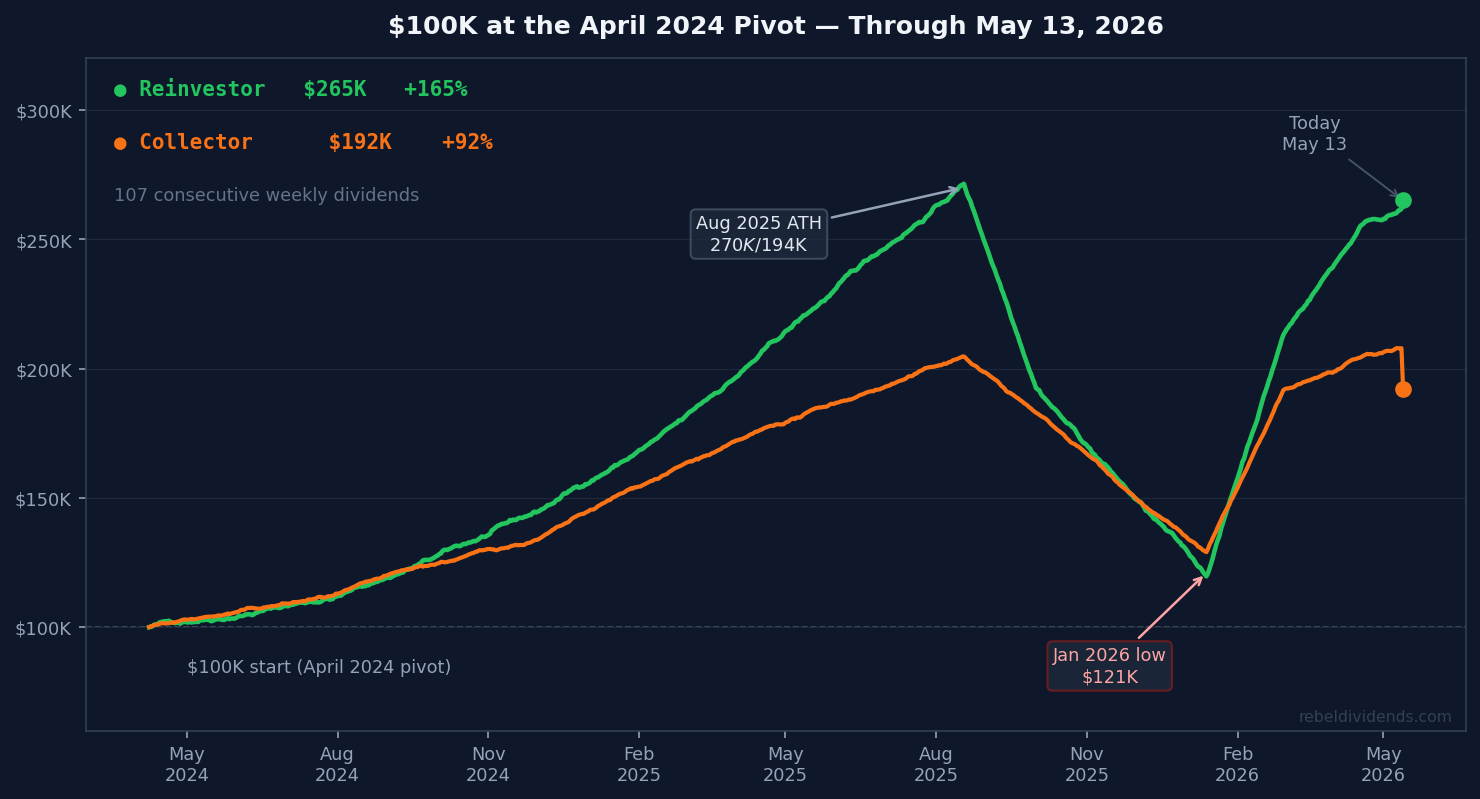
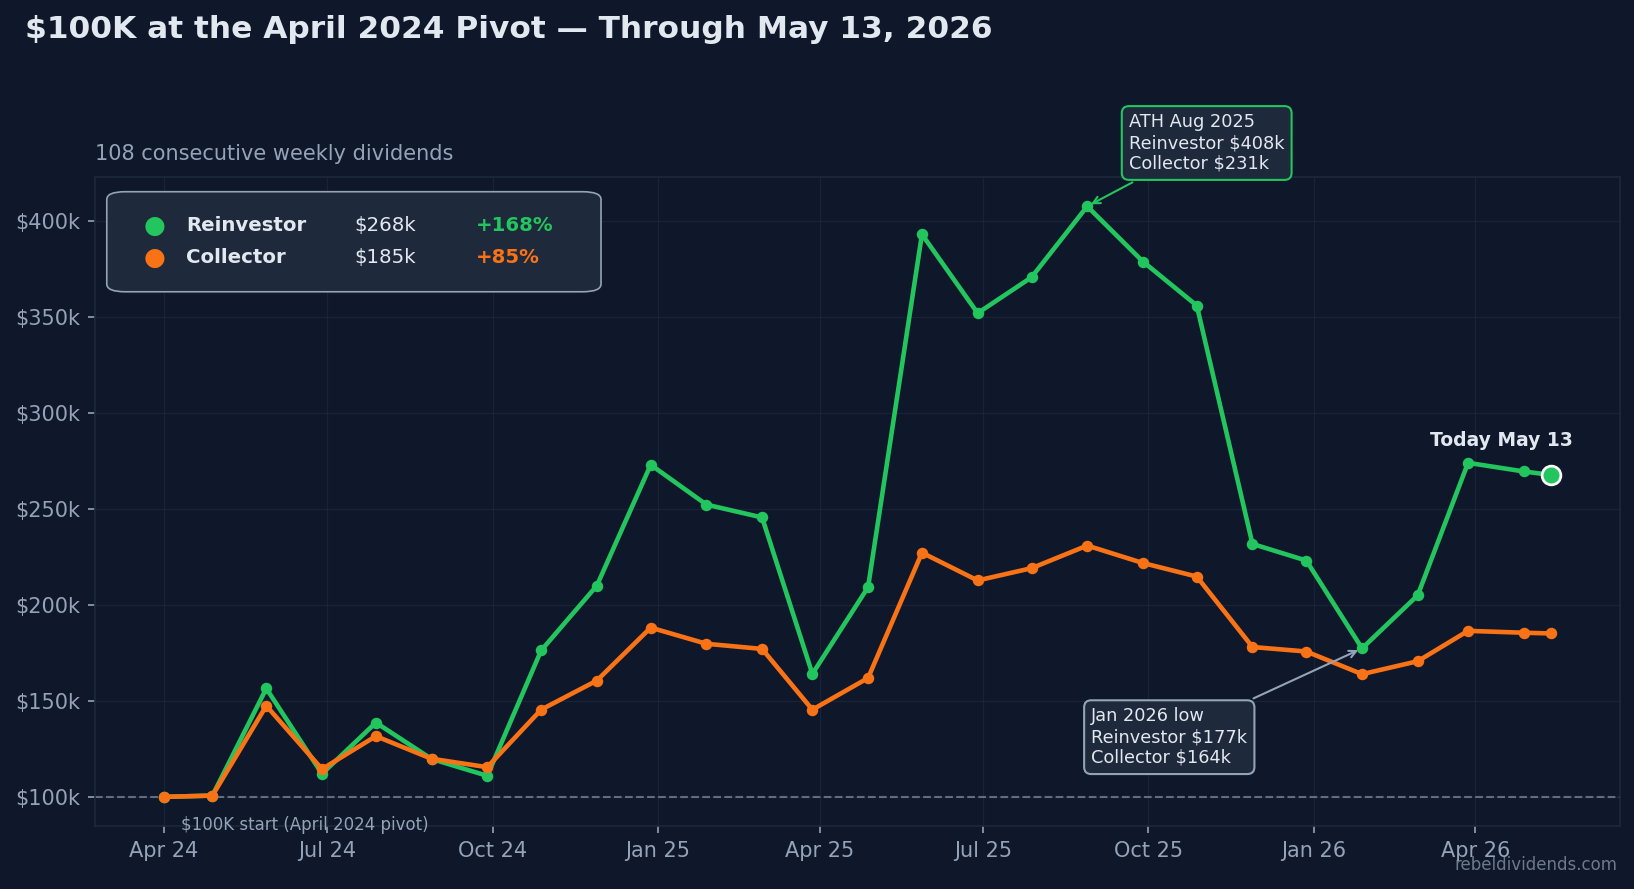
Add gen_pivot_chart.py — reusable weekly-compounding reinvestor chart script

diff --git a/outputs/2026-05-13/elementor.html b/outputs/2026-05-13/elementor.html
@@ -10,7 +10,7 @@
 
 <p style="margin:0 0 18px 0;font-size:17px;line-height:1.7;color:#1a1a1a;">Yesterday's webinar locked in the macro setup: BTC has decoupled from global M2 money supply, and when M2 catches up, BTC explodes. HYPE pulls with it. Hyperliquid is the #1 decentralized perp exchange &mdash; roughly 70% market share, $180B+ monthly volume, 97% of protocol fees flowing back to token holders. $1.3B in HYPE already bought back and burned. That's 4.17% of supply, gone.</p>
 
-<p style="margin:0 0 20px 0;font-size:17px;line-height:1.7;color:#1a1a1a;"><strong style="color:#ff6600;">$60 is the first stop. $150 is the thesis. $350-500 is the path from there.</strong> $100K invested at our April 2024 pivot is worth roughly <strong>$256K (Reinvestor) or $185K (Collector)</strong> today. The Reinvestor advantage is $71K and widens every Monday when the next dividend lands.</p>
+<p style="margin:0 0 20px 0;font-size:17px;line-height:1.7;color:#1a1a1a;"><strong style="color:#ff6600;">$60 is the first stop. $150 is the thesis. $350-500 is the path from there.</strong> $100K invested at our April 2024 pivot is worth roughly <strong>$268K (Reinvestor) or $185K (Collector)</strong> today. The Reinvestor advantage is $83K and widens every Monday when the next dividend lands.</p>
 
 <p style="margin:0 0 22px 0;font-size:17px;line-height:1.7;color:#1a1a1a;">Week 106 dividend confirmed this Monday &mdash; 106 consecutive weeks of uninterrupted income since the pivot, every 2026 distribution classified as Return of Capital under IRC &sect;301(c)(2). Tax-free for 2026 &mdash; consult your CPA. If you missed Tuesday's webinar, the replay walks through the full thesis: macro setup, buyback math, the September ATH retest, and the points-program signal nobody else is talking about.</p>
 

diff --git a/outputs/2026-05-13/email.html b/outputs/2026-05-13/email.html
@@ -28,7 +28,7 @@
 
 <p style="margin:0 0 18px 0;font-size:16px;line-height:1.7;color:#333333;font-family:Arial,sans-serif;">Yesterday's webinar locked in the macro setup: BTC has decoupled from global M2 money supply, and when M2 catches up, BTC explodes. HYPE pulls with it. Hyperliquid is the #1 decentralized perp exchange &mdash; roughly 70% market share, $180B+ monthly volume, 97% of protocol fees flowing back to token holders. $1.3B in HYPE already bought back and burned. That's 4.17% of supply, gone.</p>
 
-<p style="margin:0 0 20px 0;font-size:16px;line-height:1.7;color:#333333;font-family:Arial,sans-serif;"><strong style="color:#ff6600;">$60 is the first stop. $150 is the thesis. $350-500 is the path from there.</strong> $100K invested at our April 2024 pivot is worth roughly <strong>$256K (Reinvestor) or $185K (Collector)</strong> today. The Reinvestor advantage is $71K and widens every Monday when the next dividend lands.</p>
+<p style="margin:0 0 20px 0;font-size:16px;line-height:1.7;color:#333333;font-family:Arial,sans-serif;"><strong style="color:#ff6600;">$60 is the first stop. $150 is the thesis. $350-500 is the path from there.</strong> $100K invested at our April 2024 pivot is worth roughly <strong>$268K (Reinvestor) or $185K (Collector)</strong> today. The Reinvestor advantage is $83K and widens every Monday when the next dividend lands.</p>
 
 <p style="margin:0 0 22px 0;font-size:16px;line-height:1.7;color:#333333;font-family:Arial,sans-serif;">Week 107 dividend confirmed this Monday &mdash; 107 consecutive weeks of uninterrupted income since the pivot, every 2026 distribution classified as Return of Capital under IRC &sect;301(c)(2). Tax-free for 2026 &mdash; consult your CPA. If you missed Tuesday's webinar, the replay walks through the full thesis: macro setup, buyback math, the September ATH retest, and the points-program signal nobody else is talking about.</p>
 

diff --git a/pipeline/gen_pivot_chart.py b/pipeline/gen_pivot_chart.py
@@ -1,0 +1,374 @@
+#!/usr/bin/env python3
+"""
+Generate the "$100K at the April 2024 Pivot" dark-theme chart.
+
+Simulates Reinvestor vs Collector using weekly steps inside each month:
+  - weekly_price interpolates linearly from monthly open -> close
+  - weekly_div_per_share = monthly_div / weeks_in_month
+  - Reinvestor: buys MORE shares each week using that week's dividend cash
+  - Collector: shares fixed; cash piles up
+
+Usage:
+    python3 pipeline/gen_pivot_chart.py --date 2026-05-13 --price 0.00164 --monthly-div 0.00004
+
+The last row of MONTHLY_DATA is treated as the "current/MTD" row and
+its `close` and `monthly_div` are overridden by the CLI flags. To roll
+forward to a new month, append a new dict to MONTHLY_DATA.
+
+Outputs:
+    public/charts/<YYYY-MM-DD>/reinvest-since-pivot-<mmmDD>.png
+    public/charts/2026-05-12/reinvest-since-pivot-may12.png   (compat)
+"""
+from __future__ import annotations
+
+import argparse
+import os
+import sys
+from dataclasses import dataclass
+from datetime import datetime, date
+
+import matplotlib.pyplot as plt
+import matplotlib.patches as mpatches
+from matplotlib.ticker import FuncFormatter
+
+# ---------------------------------------------------------------------------
+# Monthly data — appendable.  open/close = HYPE price at month open/close.
+# monthly_div = total dividend per share for the month.
+# weeks = simulation steps inside that month (4 normal, 2 for May 2026 MTD).
+# ---------------------------------------------------------------------------
+MONTHLY_DATA = [
+    {"label": "Apr 2024", "year": 2024, "month":  4, "open": 0.00297, "close": 0.00269, "monthly_div": 0.00030, "weeks": 4},
+    {"label": "May 2024", "year": 2024, "month":  5, "open": 0.00265, "close": 0.00353, "monthly_div": 0.00055, "weeks": 4},
+    {"label": "Jun 2024", "year": 2024, "month":  6, "open": 0.00311, "close": 0.00225, "monthly_div": 0.00030, "weeks": 4},
+    {"label": "Jul 2024", "year": 2024, "month":  7, "open": 0.00238, "close": 0.00234, "monthly_div": 0.00042, "weeks": 4},
+    {"label": "Aug 2024", "year": 2024, "month":  8, "open": 0.00147, "close": 0.00175, "monthly_div": 0.00024, "weeks": 4},
+    {"label": "Sep 2024", "year": 2024, "month":  9, "open": 0.00154, "close": 0.00153, "monthly_div": 0.00009, "weeks": 4},
+    {"label": "Oct 2024", "year": 2024, "month": 10, "open": 0.00143, "close": 0.00237, "monthly_div": 0.00005, "weeks": 4},
+    {"label": "Nov 2024", "year": 2024, "month": 11, "open": 0.00241, "close": 0.00275, "monthly_div": 0.00007, "weeks": 4},
+    {"label": "Dec 2024", "year": 2024, "month": 12, "open": 0.00337, "close": 0.00337, "monthly_div": 0.00020, "weeks": 4},
+    {"label": "Jan 2025", "year": 2025, "month":  1, "open": 0.00367, "close": 0.00302, "monthly_div": 0.00010, "weeks": 4},
+    {"label": "Feb 2025", "year": 2025, "month":  2, "open": 0.00295, "close": 0.00286, "monthly_div": 0.00008, "weeks": 4},
+    {"label": "Mar 2025", "year": 2025, "month":  3, "open": 0.00246, "close": 0.00182, "monthly_div": 0.00010, "weeks": 4},
+    {"label": "Apr 2025", "year": 2025, "month":  4, "open": 0.00159, "close": 0.00223, "monthly_div": 0.00008, "weeks": 4},
+    {"label": "May 2025", "year": 2025, "month":  5, "open": 0.00246, "close": 0.00408, "monthly_div": 0.00009, "weeks": 4},
+    {"label": "Jun 2025", "year": 2025, "month":  6, "open": 0.00338, "close": 0.00353, "monthly_div": 0.00012, "weeks": 4},
+    {"label": "Jul 2025", "year": 2025, "month":  7, "open": 0.00406, "close": 0.00364, "monthly_div": 0.00008, "weeks": 4},
+    {"label": "Aug 2025", "year": 2025, "month":  8, "open": 0.00301, "close": 0.00387, "monthly_div": 0.00012, "weeks": 4},
+    {"label": "Sep 2025", "year": 2025, "month":  9, "open": 0.00400, "close": 0.00352, "monthly_div": 0.00008, "weeks": 4},
+    {"label": "Oct 2025", "year": 2025, "month": 10, "open": 0.00352, "close": 0.00318, "monthly_div": 0.00013, "weeks": 4},
+    {"label": "Nov 2025", "year": 2025, "month": 11, "open": 0.00278, "close": 0.00191, "monthly_div": 0.00018, "weeks": 4},
+    {"label": "Dec 2025", "year": 2025, "month": 12, "open": 0.00191, "close": 0.00174, "monthly_div": 0.00010, "weeks": 4},
+    {"label": "Jan 2026", "year": 2026, "month":  1, "open": 0.00174, "close": 0.00131, "monthly_div": 0.00008, "weeks": 4},
+    {"label": "Feb 2026", "year": 2026, "month":  2, "open": 0.00131, "close": 0.00143, "monthly_div": 0.00008, "weeks": 4},
+    {"label": "Mar 2026", "year": 2026, "month":  3, "open": 0.00143, "close": 0.00180, "monthly_div": 0.00010, "weeks": 4},
+    {"label": "Apr 2026", "year": 2026, "month":  4, "open": 0.00180, "close": 0.001691, "monthly_div": 0.00008, "weeks": 4},
+    # last row = current MTD; close + monthly_div override-able via CLI
+    {"label": "May 2026 MTD", "year": 2026, "month": 5, "open": 0.001691, "close": 0.00164, "monthly_div": 0.00004, "weeks": 2},
+]
+
+PIVOT_PRICE = 0.00297
+INITIAL_CAPITAL = 100_000.0
+INITIAL_SHARES = INITIAL_CAPITAL / PIVOT_PRICE  # 33,670,033.67
+
+# First weekly dividend after the April 2024 pivot. Used to count
+# consecutive weekly dividends from the run date.
+FIRST_DIV_DATE = date(2024, 4, 22)
+
+
+# ---------------------------------------------------------------------------
+@dataclass
+class MonthlyPoint:
+    label: str
+    end_date: date
+    close: float
+    monthly_div: float
+    reinvestor_shares: float
+    reinvestor_value: float
+    collector_cash: float
+    collector_value: float
+
+
+def simulate(months: list[dict]) -> list[MonthlyPoint]:
+    """Weekly-step simulation; returns one MonthlyPoint per month + a t=0 row."""
+    points: list[MonthlyPoint] = []
+
+    # t=0 anchor at pivot
+    points.append(MonthlyPoint(
+        label="Pivot",
+        end_date=date(months[0]["year"], months[0]["month"], 1),
+        close=PIVOT_PRICE,
+        monthly_div=0.0,
+        reinvestor_shares=INITIAL_SHARES,
+        reinvestor_value=INITIAL_CAPITAL,
+        collector_cash=0.0,
+        collector_value=INITIAL_CAPITAL,
+    ))
+
+    reinvestor_shares = INITIAL_SHARES
+    collector_cash = 0.0
+
+    for m in months:
+        weeks = int(m["weeks"])
+        open_p = float(m["open"])
+        close_p = float(m["close"])
+        weekly_div = float(m["monthly_div"]) / weeks
+
+        for w in range(1, weeks + 1):
+            # linear interpolation from open -> close at end of each week
+            frac = w / weeks
+            weekly_price = open_p + (close_p - open_p) * frac
+
+            # Reinvestor: collect div cash, buy more shares at weekly_price
+            div_cash = reinvestor_shares * weekly_div
+            new_shares = div_cash / weekly_price
+            reinvestor_shares += new_shares
+
+            # Collector: cash collected on FIXED initial share count
+            collector_cash += INITIAL_SHARES * weekly_div
+
+        reinvestor_value = reinvestor_shares * close_p
+        collector_value = (INITIAL_SHARES * close_p) + collector_cash
+
+        # end-of-month date (use day 28 for stability; MTD uses run date)
+        eom = date(m["year"], m["month"], 28)
+
+        points.append(MonthlyPoint(
+            label=m["label"],
+            end_date=eom,
+            close=close_p,
+            monthly_div=m["monthly_div"],
+            reinvestor_shares=reinvestor_shares,
+            reinvestor_value=reinvestor_value,
+            collector_cash=collector_cash,
+            collector_value=collector_value,
+        ))
+
+    return points
+
+
+# ---------------------------------------------------------------------------
+def draw_chart(points: list[MonthlyPoint], run_date: date, out_paths: list[str]):
+    bg = "#0f172a"
+    grid = "#1e293b"
+    text = "#e2e8f0"
+    muted = "#94a3b8"
+    green = "#22c55e"
+    orange = "#f97316"
+
+    plt.rcParams.update({
+        "font.family": "DejaVu Sans",
+        "axes.edgecolor": muted,
+        "axes.labelcolor": text,
+        "xtick.color": muted,
+        "ytick.color": muted,
+        "text.color": text,
+    })
+
+    fig, ax = plt.subplots(figsize=(11, 6), dpi=150)
+    fig.patch.set_facecolor(bg)
+    ax.set_facecolor(bg)
+
+    dates = [p.end_date for p in points]
+    reinv = [p.reinvestor_value for p in points]
+    coll = [p.collector_value for p in points]
+
+    # Replace last point's date with the run date so the "Today" marker sits where it should
+    dates[-1] = run_date
+
+    ax.plot(dates, reinv, color=green, lw=2.2, marker="o", ms=4.5, mfc=green, mec=green, zorder=3)
+    ax.plot(dates, coll, color=orange, lw=2.2, marker="o", ms=4.5, mfc=orange, mec=orange, zorder=3)
+
+    # $100K reference line
+    ax.axhline(INITIAL_CAPITAL, color=muted, ls="--", lw=1, alpha=0.6, zorder=1)
+
+    # Grid
+    ax.grid(True, color=grid, lw=0.6, alpha=0.7)
+    ax.set_axisbelow(True)
+    for spine in ax.spines.values():
+        spine.set_color(grid)
+
+    # Y axis formatting in $k
+    ax.yaxis.set_major_formatter(FuncFormatter(lambda v, _: f"${v/1000:,.0f}k"))
+
+    # X axis: ticks every ~3 months
+    import matplotlib.dates as mdates
+    ax.xaxis.set_major_locator(mdates.MonthLocator(interval=3))
+    ax.xaxis.set_major_formatter(mdates.DateFormatter("%b %y"))
+    fig.autofmt_xdate(rotation=0, ha="center")
+
+    # ATH annotation (pick reinvestor peak after first month)
+    body = points[1:]  # skip pivot anchor
+    ath_idx = max(range(len(body)), key=lambda i: body[i].reinvestor_value)
+    ath_pt = body[ath_idx]
+    ath_coll = ath_pt.collector_value
+    ath_text = (
+        f"ATH {ath_pt.label}\n"
+        f"Reinvestor ${ath_pt.reinvestor_value/1000:,.0f}k\n"
+        f"Collector ${ath_coll/1000:,.0f}k"
+    )
+    ax.annotate(
+        ath_text,
+        xy=(ath_pt.end_date, ath_pt.reinvestor_value),
+        xytext=(20, 18),
+        textcoords="offset points",
+        fontsize=8.5,
+        color=text,
+        bbox=dict(boxstyle="round,pad=0.4", fc="#1e293b", ec=green, lw=1),
+        arrowprops=dict(arrowstyle="->", color=green, lw=1),
+    )
+
+    # Jan 2026 low annotation (find reinvestor min in 2026)
+    candidates_2026 = [p for p in body if p.end_date.year == 2026 and p.end_date.month <= 4]
+    if candidates_2026:
+        low_pt = min(candidates_2026, key=lambda p: p.reinvestor_value)
+        low_text = (
+            f"{low_pt.label} low\n"
+            f"Reinvestor ${low_pt.reinvestor_value/1000:,.0f}k\n"
+            f"Collector ${low_pt.collector_value/1000:,.0f}k"
+        )
+        ax.annotate(
+            low_text,
+            xy=(low_pt.end_date, low_pt.reinvestor_value),
+            xytext=(-130, -55),
+            textcoords="offset points",
+            fontsize=8.5,
+            color=text,
+            bbox=dict(boxstyle="round,pad=0.4", fc="#1e293b", ec=muted, lw=1),
+            arrowprops=dict(arrowstyle="->", color=muted, lw=1),
+        )
+
+    # "Today" marker on endpoint
+    today = points[-1]
+    ax.plot([run_date], [today.reinvestor_value], "o", ms=9,
+            mfc=green, mec="white", mew=1.3, zorder=5)
+    ax.annotate(
+        f"Today {run_date.strftime('%b %d')}",
+        xy=(run_date, today.reinvestor_value),
+        xytext=(-58, 14),
+        textcoords="offset points",
+        fontsize=9,
+        color=text,
+        fontweight="bold",
+    )
+
+    # $100K start label
+    ax.annotate(
+        "$100K start (April 2024 pivot)",
+        xy=(dates[0], INITIAL_CAPITAL),
+        xytext=(8, -16),
+        textcoords="offset points",
+        fontsize=8,
+        color=muted,
+    )
+
+    # Legend (top-left box)
+    reinv_pct = (today.reinvestor_value / INITIAL_CAPITAL - 1) * 100
+    coll_pct = (today.collector_value / INITIAL_CAPITAL - 1) * 100
+    legend_lines = [
+        ("Reinvestor", f"${today.reinvestor_value/1000:,.0f}k", f"+{reinv_pct:.0f}%", green),
+        ("Collector", f"${today.collector_value/1000:,.0f}k", f"+{coll_pct:.0f}%", orange),
+    ]
+    # Build legend manually
+    ax.text(
+        0.018, 0.965,
+        "",
+        transform=ax.transAxes,
+    )
+    legend_x = 0.020
+    legend_y_top = 0.965
+    legend_box = mpatches.FancyBboxPatch(
+        (legend_x, legend_y_top - 0.13),
+        0.30, 0.13,
+        boxstyle="round,pad=0.012",
+        transform=ax.transAxes,
+        fc="#1e293b", ec=muted, lw=0.8, zorder=4,
+    )
+    ax.add_patch(legend_box)
+    for i, (label, val, pct, color) in enumerate(legend_lines):
+        y = legend_y_top - 0.04 - i * 0.05
+        ax.text(legend_x + 0.012, y, "●", color=color,
+                fontsize=12, transform=ax.transAxes, va="center", zorder=5)
+        ax.text(legend_x + 0.040, y, label, color=text, fontsize=9.5,
+                transform=ax.transAxes, va="center", zorder=5, fontweight="bold")
+        ax.text(legend_x + 0.150, y, val, color=text, fontsize=9.5,
+                transform=ax.transAxes, va="center", zorder=5)
+        ax.text(legend_x + 0.230, y, pct, color=color, fontsize=9.5,
+                transform=ax.transAxes, va="center", zorder=5, fontweight="bold")
+
+    # Consecutive weekly dividends = calendar weeks since first weekly div
+    div_weeks = max(1, (run_date - FIRST_DIV_DATE).days // 7 + 1)
+    # Title + subtitle
+    title_date = run_date.strftime("%B %d, %Y")
+    fig.suptitle(
+        f"$100K at the April 2024 Pivot — Through {title_date}",
+        fontsize=15, color=text, fontweight="bold", x=0.02, ha="left", y=0.965,
+    )
+    ax.set_title(
+        f"{div_weeks} consecutive weekly dividends",
+        loc="left", fontsize=10, color=muted, pad=8,
+    )
+
+    # Watermark
+    fig.text(0.985, 0.015, "rebeldividends.com",
+             color=muted, fontsize=8, ha="right", alpha=0.7)
+
+    plt.tight_layout(rect=[0, 0, 1, 0.94])
+
+    for out in out_paths:
+        os.makedirs(os.path.dirname(out), exist_ok=True)
+        fig.savefig(out, facecolor=bg, dpi=150, bbox_inches="tight")
+        print(f"wrote {out}")
+    plt.close(fig)
+
+
+# ---------------------------------------------------------------------------
+def main():
+    p = argparse.ArgumentParser()
+    p.add_argument("--date", required=True, help="run date YYYY-MM-DD")
+    p.add_argument("--price", type=float, required=True,
+                   help="current close price for the last (MTD) row")
+    p.add_argument("--monthly-div", type=float, required=True,
+                   help="cumulative dividend per share for the last (MTD) row so far")
+    args = p.parse_args()
+
+    run_date = datetime.strptime(args.date, "%Y-%m-%d").date()
+
+    months = [dict(m) for m in MONTHLY_DATA]
+    months[-1]["close"] = args.price
+    months[-1]["monthly_div"] = args.monthly_div
+
+    points = simulate(months)
+    today = points[-1]
+
+    reinv_pct = (today.reinvestor_value / INITIAL_CAPITAL - 1) * 100
+    coll_pct = (today.collector_value / INITIAL_CAPITAL - 1) * 100
+
+    print("=" * 60)
+    print(f"Run date:           {run_date}")
+    print(f"Current price:      ${args.price:.5f}")
+    print(f"Pivot price:        ${PIVOT_PRICE:.5f}")
+    print(f"Initial shares:     {INITIAL_SHARES:,.2f}")
+    print("-" * 60)
+    print(f"Reinvestor value:   ${today.reinvestor_value:>12,.2f}   ({reinv_pct:+.1f}%)")
+    print(f"Reinvestor shares:  {today.reinvestor_shares:>15,.0f}")
+    print(f"Collector value:    ${today.collector_value:>12,.2f}   ({coll_pct:+.1f}%)")
+    print(f"  ├─ Share value:   ${INITIAL_SHARES * args.price:>12,.2f}")
+    print(f"  └─ Cash collected:${today.collector_cash:>12,.2f}   (sanity: total dividends)")
+    print(f"Reinvestor edge:    ${today.reinvestor_value - today.collector_value:>12,.2f}")
+    print("=" * 60)
+
+    # Output paths
+    mmm = run_date.strftime("%b").lower()  # e.g. "may"
+    dd = run_date.strftime("%d")            # "13"
+    primary = f"public/charts/{run_date.isoformat()}/reinvest-since-pivot-{mmm}{dd}.png"
+    compat = "public/charts/2026-05-12/reinvest-since-pivot-may12.png"
+
+    repo_root = os.path.dirname(os.path.dirname(os.path.abspath(__file__)))
+    primary = os.path.join(repo_root, primary)
+    compat = os.path.join(repo_root, compat)
+
+    draw_chart(points, run_date, [primary, compat])
+
+
+if __name__ == "__main__":
+    main()